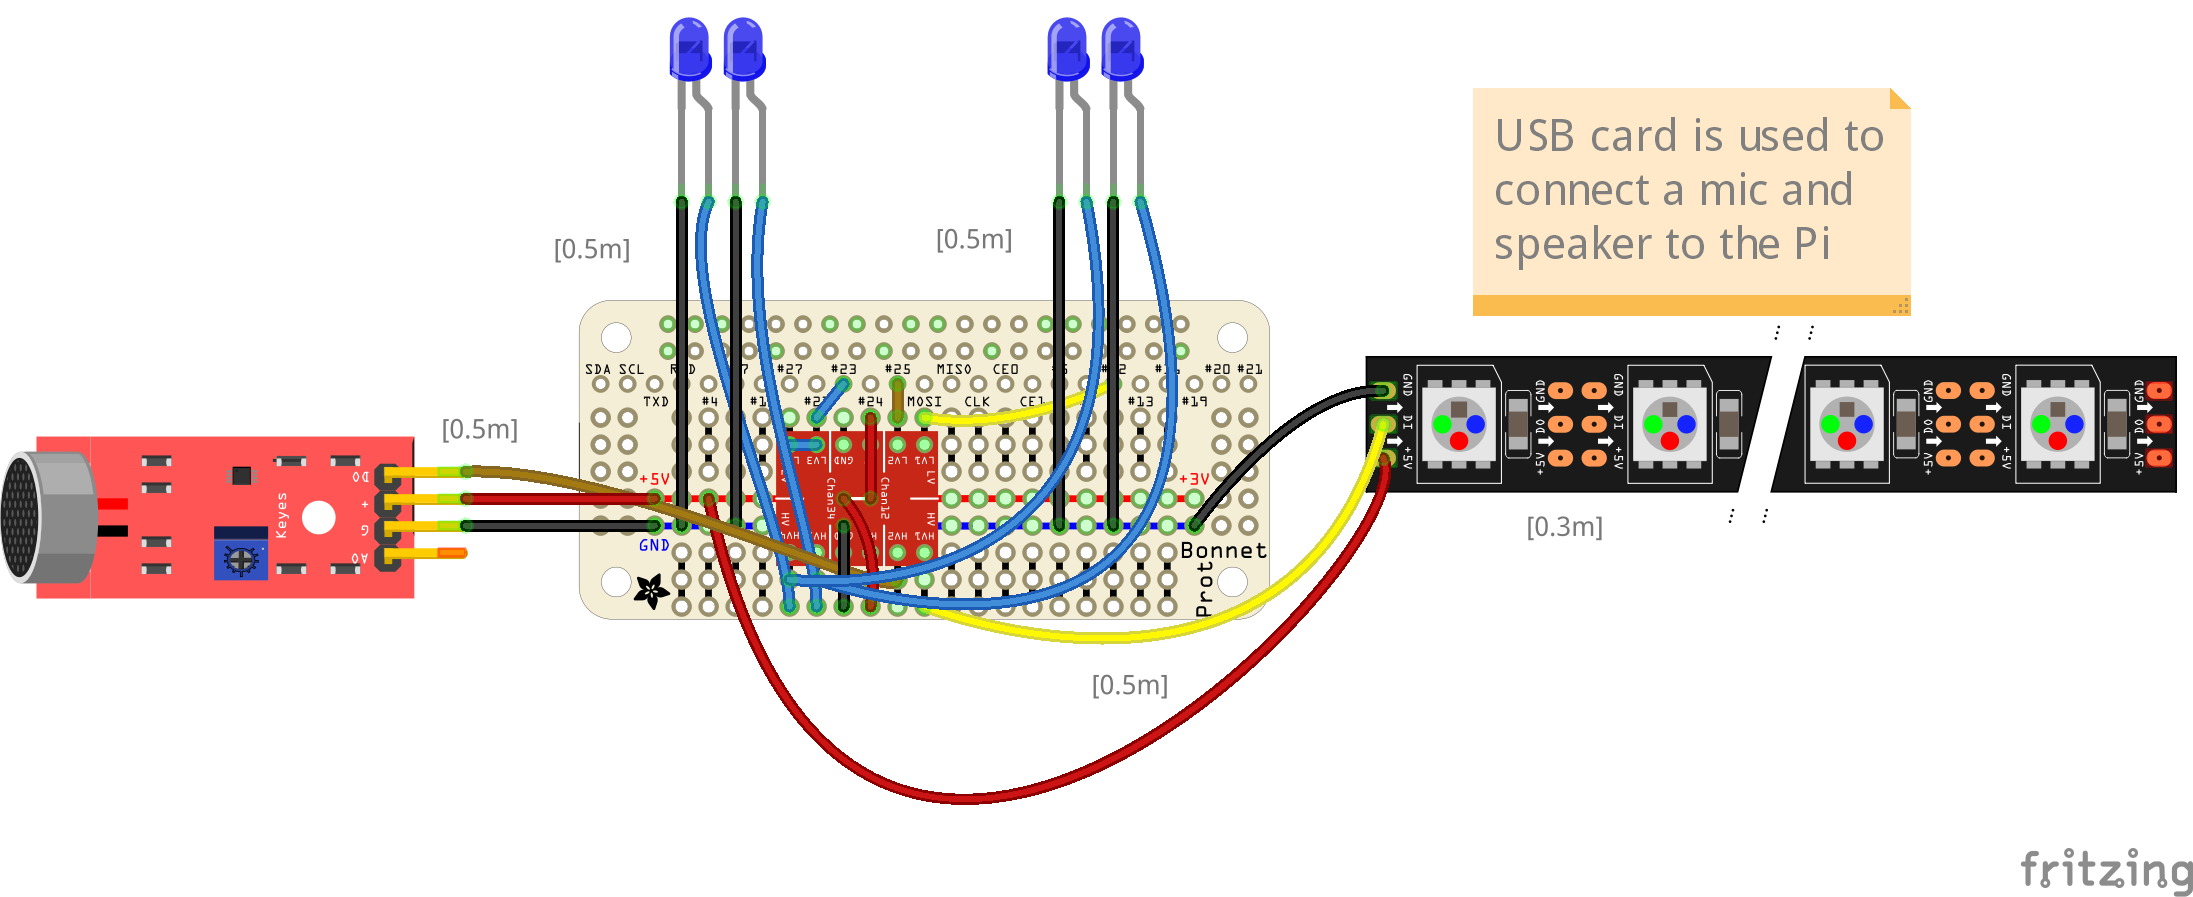
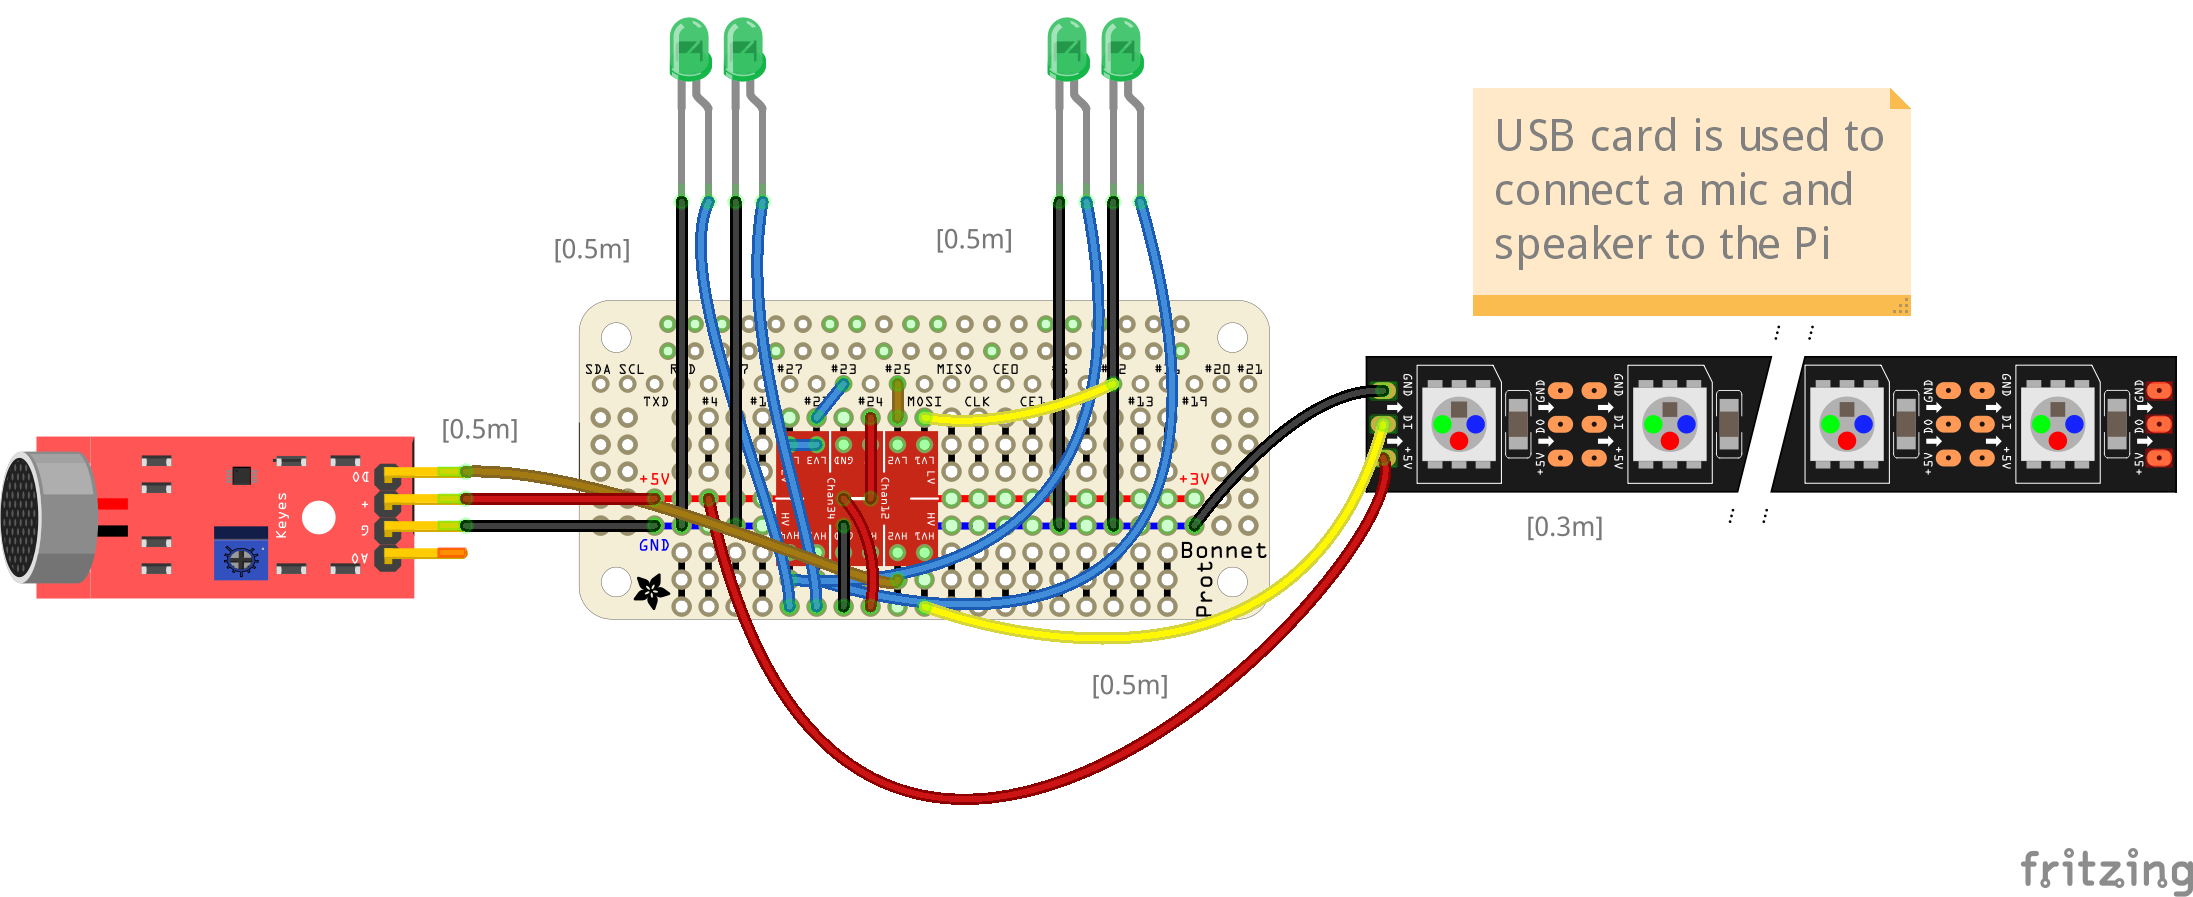
Changed mouth animation colour to green

diff --git a/Python/audioMonitor.py b/Python/audioMonitor.py
@@ -16,7 +16,7 @@ def runAudioMonitor():
     timeBetweenGpioChecks = 1 # ms
     timeBetweenLedChanges = 100 # ms
     ledCount = 8
-    ledColours = [Color(0, 0, 255), Color(0, 0, 255), Color(0, 0, 255), Color(0, 0, 255), Color(0, 0, 255), Color(0, 0, 255), Color(0, 0, 255), Color(0, 0, 255)]
+    ledColours = [Color(0, 255, 0), Color(0, 255, 0), Color(0, 255, 0), Color(0, 255, 0), Color(0, 255, 0), Color(0, 255, 0), Color(0, 255, 0), Color(0, 255, 0)]
     ledFreqHz = 800000   # LED signal frequency in hertz (usually 800khz)
     ledDma = 10          # DMA channel to use for generating signal (try 10)
     ledBrightness = 255  # Set to 0 for darkest and 255 for brightest
